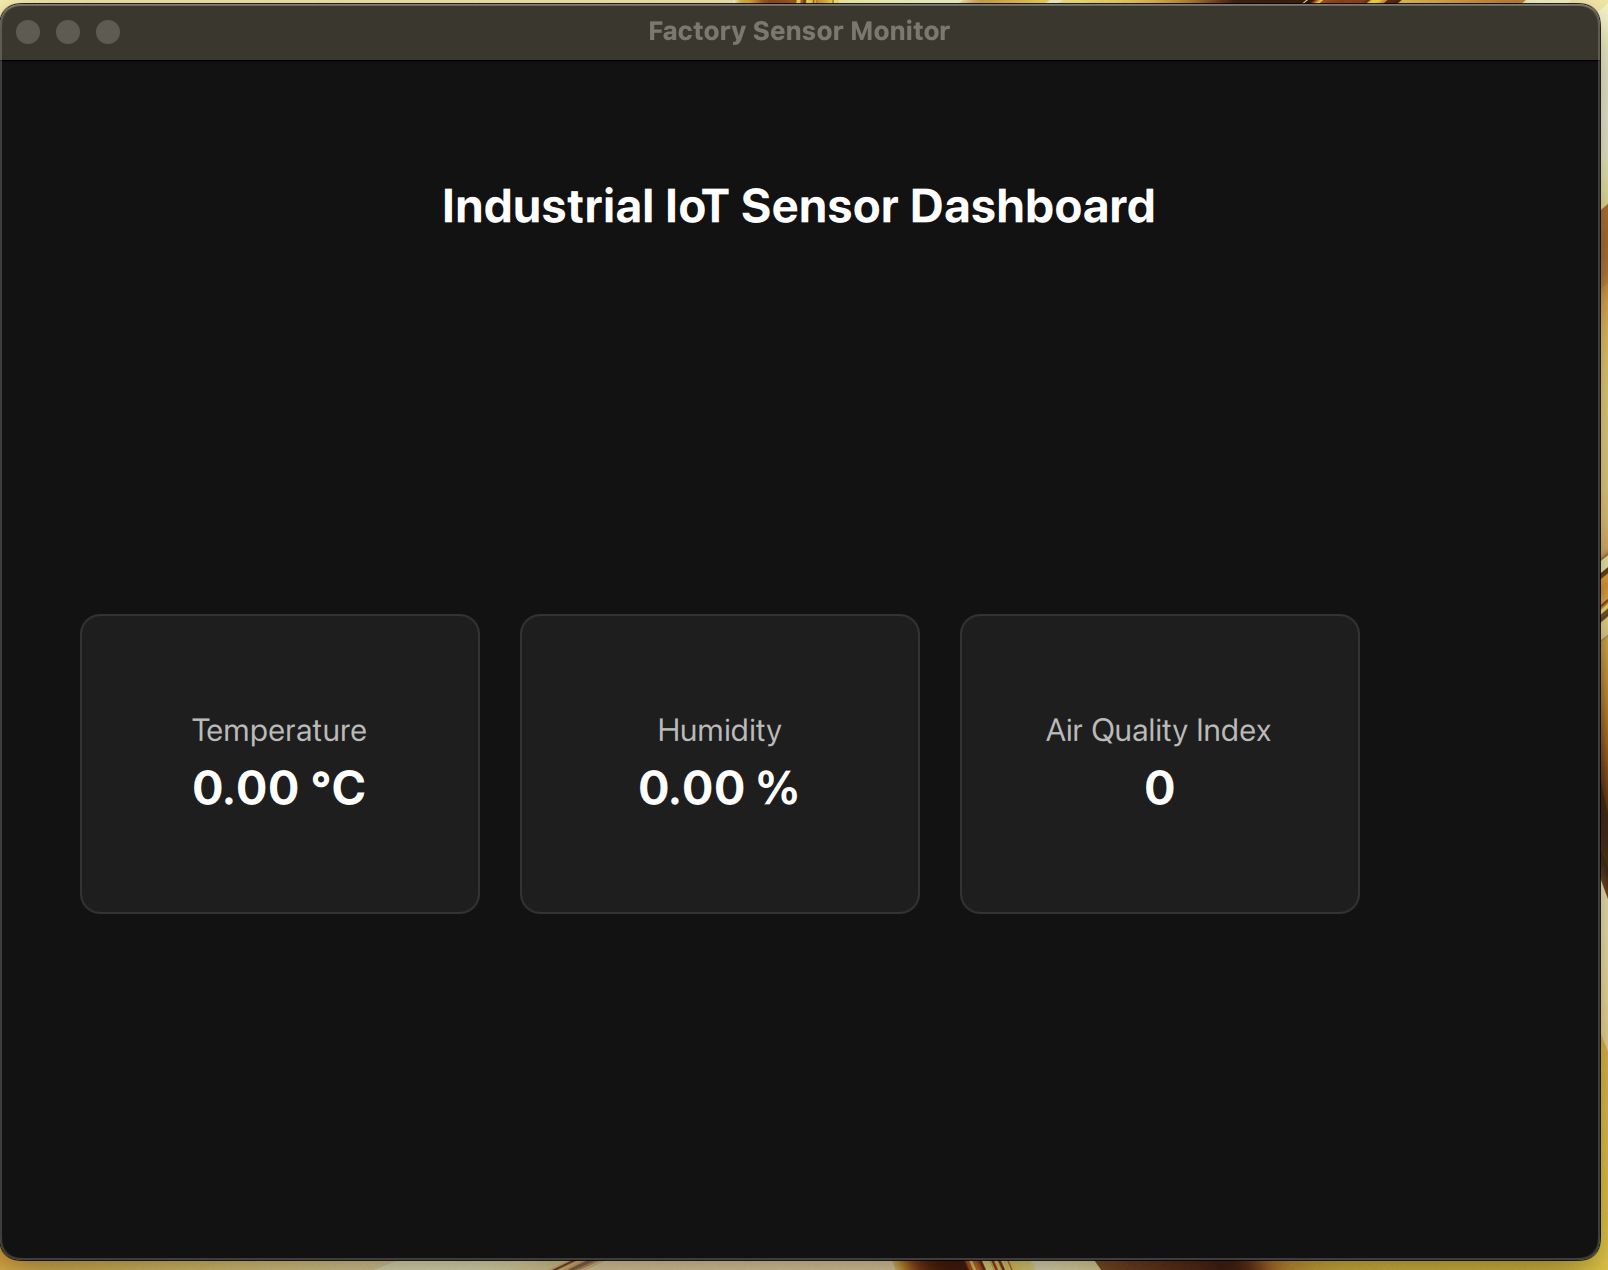
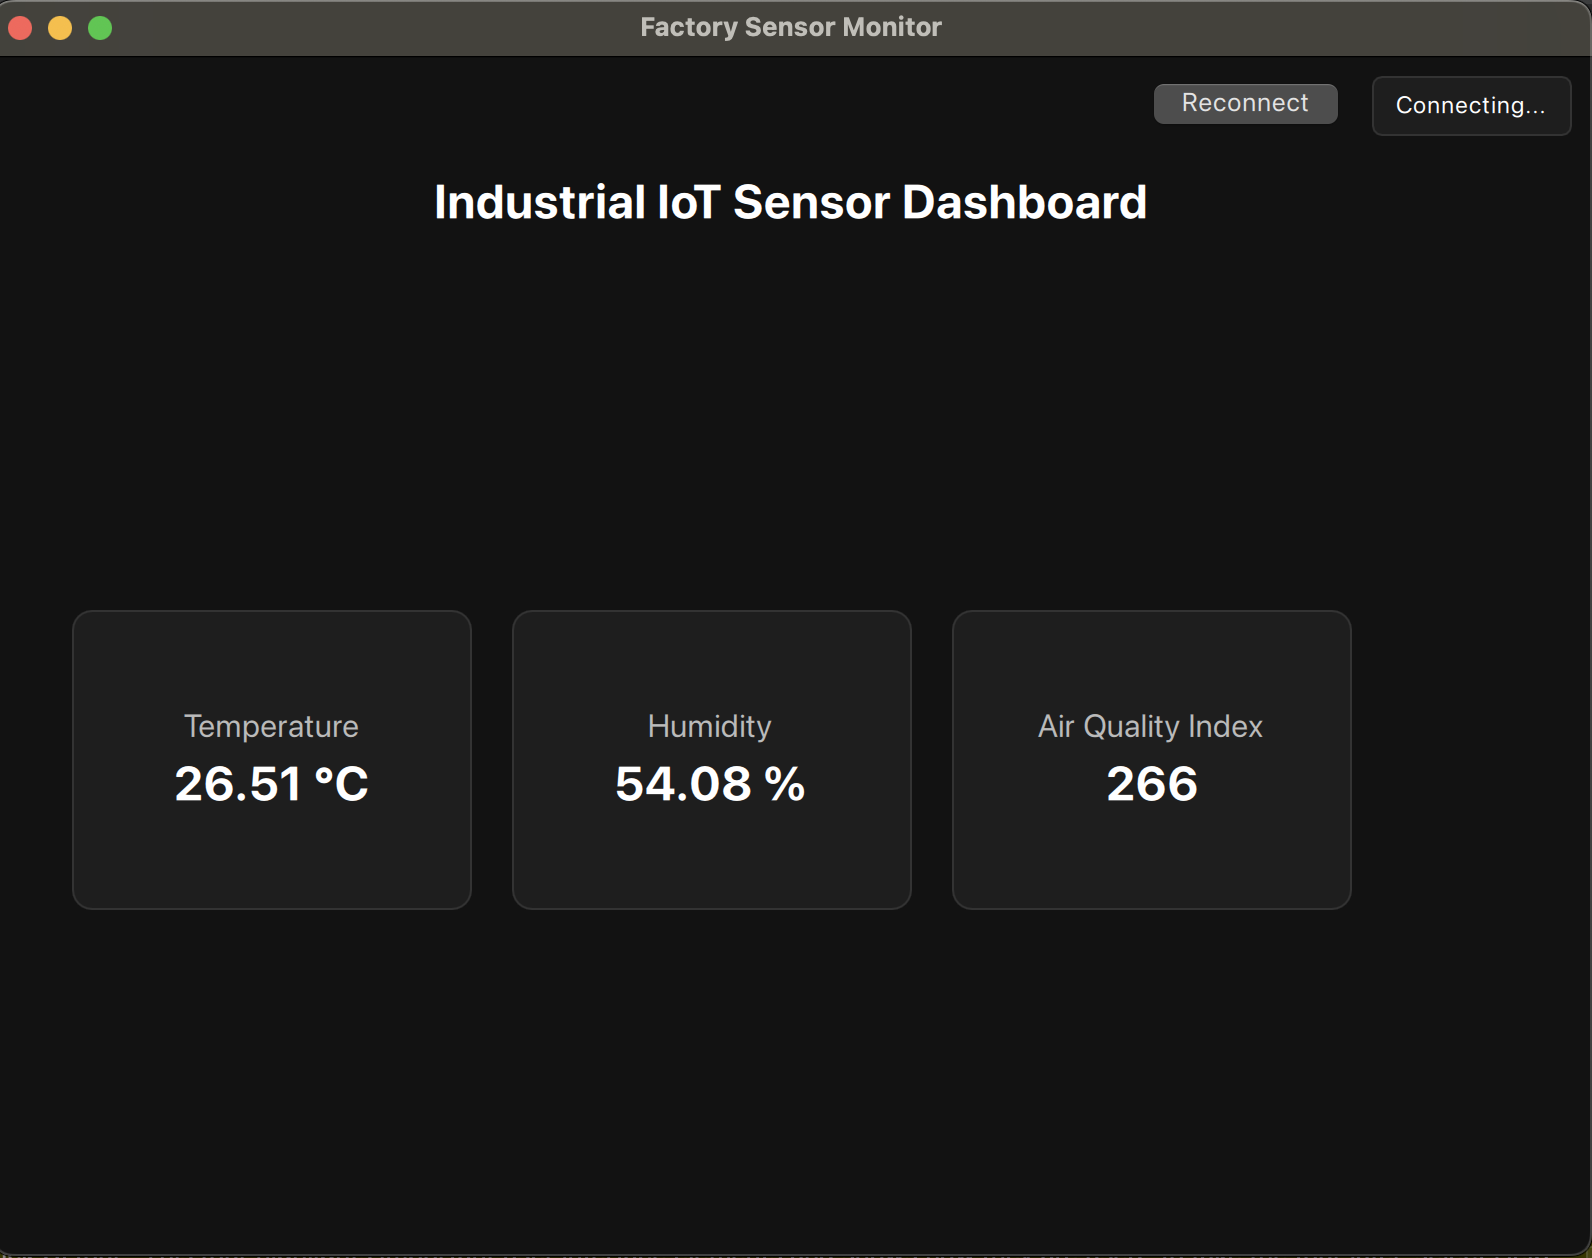
Fix bugs

diff --git a/Qt_client/Main.qml b/Qt_client/Main.qml
@@ -13,7 +13,41 @@ Window {
     color: "#121212"
 
     Component.onCompleted: {
+        // Connect with default localhost and standard MQTT port
         mqttManager.connectToHost()
+    }
+
+    // Connection Status Indicator
+    Rectangle {
+        id: connectionStatus
+        anchors {
+            top: parent.top
+            right: parent.right
+            margins: 10
+        }
+        width: 100
+        height: 30
+        color: "#1E1E1E"
+        border.color: "#333333"
+        radius: 5
+
+        Label {
+            anchors.centerIn: parent
+            text: "Connecting..."
+            color: "white"
+            font.pixelSize: 12
+        }
+
+
+        Button {
+            anchors {
+                right: parent.left
+                verticalCenter: parent.verticalCenter
+                rightMargin: 10
+            }
+            text: "Reconnect"
+            onClicked: mqttManager.connectToHost()
+        }
     }
 
     // Center the entire content
@@ -128,3 +162,4 @@ Window {
         }
     }
 }
+

diff --git a/Qt_client/mqttmanager.cpp b/Qt_client/mqttmanager.cpp
@@ -2,48 +2,81 @@
 #include <QDebug>
 
 MqttManager::MqttManager(QObject *parent)
-    : QObject(parent), m_client(new QMqttClient(this)),
-    m_temperature(0.0), m_humidity(0.0), m_airQualityIndex(0)
+    : QObject(parent),
+    m_client(new QMqttClient(this)),
+    m_temperature(0.0),
+    m_humidity(0.0),
+    m_airQualityIndex(0)
 {
+    // Connect MQTT client signals
     connect(m_client, &QMqttClient::messageReceived,
             this, &MqttManager::onMessageReceived);
+
+    connect(m_client, &QMqttClient::stateChanged,
+            this, &MqttManager::onStateChanged);
 }
 
 void MqttManager::connectToHost(const QString &host, int port)
 {
-    qDebug() << "MqttManager::connectToHost";
+    qDebug() << "Attempting to connect to MQTT broker:" << host << ":" << port;
+
     m_client->setHostname(host);
     m_client->setPort(port);
     m_client->connectToHost();
+}
 
-    // Subscribe to topic
-     qDebug() << "MqttManager::connectToHost::m_client->state";
-    qDebug() << m_client->state();
+void MqttManager::disconnectFromHost()
+{
+    m_client->disconnectFromHost();
+}
 
+void MqttManager::onStateChanged(QMqttClient::ClientState state)
+{
+    qDebug() << "MQTT Client State Changed:" << state;
 
-             if (m_client->state() == QMqttClient::Connected) {
-                 auto subscription = m_client->subscribe(QMqttTopicFilter("factory/sensors/environment"));
-                 if (!subscription) {
-                     qDebug() << "Could not subscribe to topic";
-                 }
+    switch(state) {
+    case QMqttClient::Disconnected:
+        qDebug() << "Disconnected from MQTT broker";
+        break;
+    case QMqttClient::Connecting:
+        qDebug() << "Connecting to MQTT broker...";
+        break;
+    case QMqttClient::Connected:
+        qDebug() << "Connected to MQTT broker";
+        // Subscribe to topic when connected
+        auto subscription = m_client->subscribe(QMqttTopicFilter("factory/sensors/environment"), 1);
+        if (!subscription) {
+            qDebug() << "Could not subscribe to topic";
+        }
+        break;
+    }
 
-             }
-
-
-
+    emit connectionStatusChanged();
 }
 
 void MqttManager::onMessageReceived(const QByteArray &message, const QMqttTopicName &topic)
 {
-    QJsonDocument doc = QJsonDocument::fromJson(message);
+    qDebug() << "Message received on topic:" << topic;
+
+    QJsonParseError parseError;
+    QJsonDocument doc = QJsonDocument::fromJson(message, &parseError);
+
+    if (parseError.error != QJsonParseError::NoError) {
+        qDebug() << "JSON parse error:" << parseError.errorString();
+        return;
+    }
+
+    if (!doc.isObject()) {
+        qDebug() << "Received JSON is not an object";
+        return;
+    }
+
     QJsonObject jsonObj = doc.object();
 
-    qDebug() << "MqttManager::onMessageReceived";
-
-    // Update values
-    m_temperature = jsonObj["temperature"].toDouble();
-    m_humidity = jsonObj["humidity"].toDouble();
-    m_airQualityIndex = jsonObj["air_quality_index"].toInt();
+    // Safely extract values with default fallbacks
+    m_temperature = jsonObj.value("temperature").toDouble(m_temperature);
+    m_humidity = jsonObj.value("humidity").toDouble(m_humidity);
+    m_airQualityIndex = jsonObj.value("air_quality_index").toInt(m_airQualityIndex);
 
     // Emit change signals
     emit temperatureChanged();

diff --git a/Qt_client/mqttmanager.h b/Qt_client/mqttmanager.h
@@ -1,10 +1,11 @@
+
 #ifndef MQTTMANAGER_H
 #define MQTTMANAGER_H
 
 #include <QObject>
 #include <QMqttClient>
-#include <QJsonObject>
 #include <QJsonDocument>
+#include <QJsonObject>
 
 class MqttManager : public QObject
 {
@@ -16,19 +17,22 @@ class MqttManager : public QObject
 public:
     explicit MqttManager(QObject *parent = nullptr);
 
+    Q_INVOKABLE void connectToHost(const QString &host = "localhost", int port = 1883);
+    Q_INVOKABLE void disconnectFromHost();
+
     double temperature() const { return m_temperature; }
     double humidity() const { return m_humidity; }
     int airQualityIndex() const { return m_airQualityIndex; }
-
-    Q_INVOKABLE void connectToHost(const QString &host = "localhost", int port = 1883);
 
 signals:
     void temperatureChanged();
     void humidityChanged();
     void airQualityIndexChanged();
+    void connectionStatusChanged();
 
 private slots:
     void onMessageReceived(const QByteArray &message, const QMqttTopicName &topic);
+    void onStateChanged(QMqttClient::ClientState state);
 
 private:
     QMqttClient *m_client;
@@ -38,5 +42,3 @@ private:
 };
 
 #endif // MQTTMANAGER_H
-
-

diff --git a/sensor/test.py b/sensor/test.py
@@ -1,0 +1,12 @@
+import sys
+
+import paho.mqtt.client as paho
+
+client = paho.Client()
+
+if client.connect("localhost", 1883, 60) != 0:
+    print("Couldn't connect to the mqtt broker")
+    sys.exit(1)
+
+#client.publish("test_topic", "Hi, paho mqtt client works fine!", 0)
+client.disconnect()

diff --git a/Qt_client/main.cpp b/Qt_client/main.cpp
@@ -18,6 +18,7 @@ int main(int argc, char *argv[])
                          if (!obj && url == objUrl)
                              QCoreApplication::exit(-1);
                      }, Qt::QueuedConnection);
+
     engine.load(url);
 
     return app.exec();
